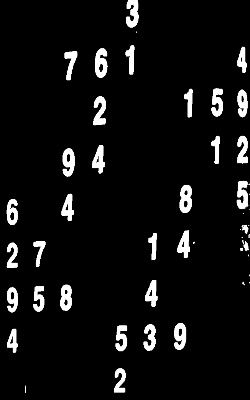
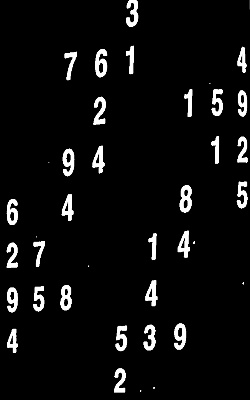
Slght changes, improve Block and constant in threshold

diff --git a/vision_utils.py b/vision_utils.py
@@ -119,13 +119,15 @@ def repetitiveThreshold(img, target_pct):
     '''
     Repeatedly tries different blocksize for adaptive thresholding until target pct is achieved
     '''
-    thres = 55
+    thres = 25
+    block = 3
     whites = whitePct(img)
 
     while whites > target_pct:
 
-        threshed = cv2.adaptiveThreshold(img,255,cv2.ADAPTIVE_THRESH_MEAN_C, cv2.THRESH_BINARY_INV,thres,2)
-        thres += 10
+        threshed = cv2.adaptiveThreshold(img,255,cv2.ADAPTIVE_THRESH_MEAN_C, cv2.THRESH_BINARY_INV, 19 ,block)
+        thres += 5
+        block += 10
         whites = whitePct(threshed)
 
     return threshed
@@ -152,7 +154,6 @@ def repetitiveFloodfill(dilated, overlapped, coords, i):
         floodfillGrid(dilated, overlapped, coords, i)
         i += 1
         whites = whitePct(dilated)
-
 
 def aspectratio(cell, highest=0.98, lowest=0.45):
     '''

diff --git a/train.py b/train.py
@@ -21,7 +21,6 @@ def deepnn(x, height, width, keep_prob=0.8):
 
     _x = tf.reshape(x, shape=[-1, height, width, 1])
 
-
     # CONV30 -> MAX_POOL2 ->
     out = layers.conv2d(_x, filters=30, kernel_size=5, activation=tf.nn.relu)
     out = layers.max_pooling2d(out, pool_size=2, strides=2)

diff --git a/README.md b/README.md
@@ -37,8 +37,6 @@ Solving a Sudoku Puzzle visually!
 
 --------------------------------------
 
-So here's a breakdown of what happened
-
 First, input image <br />
 ![a](https://github.com/Henry-bee/SudokuVisionSolver/blob/master/displayimages/displaypuzzle.jpg) <br />
 
@@ -55,14 +53,14 @@ Meanwhile in the command line, <br />
 ## Sidenotes
 ------------------------
 
-- Network is trained with only with images from "Big Book of Sudoku" 
+- Network is trained with images from "Big Book of Sudoku" 
 - Puzzle with handwritten digits won't work
 - Architecture of CovNet: COV30 -> MAXPOOL -> COV15 -> MAXPOOL -> DROPOUT -> FC128 -> FC50 -> FC10 
 - 10 classes: digits (1-9) + noise
 - Relatively poor at filtering out noisy cells
 
 ![a](https://github.com/Henry-bee/SudokuVisionSolver/blob/master/displayimages/noise1.jpg) <br />
-Noise accumulated from the shadows of texts on the next page
+Noise accumulated from the shadow of text on the back page
 
 ![a](https://github.com/Henry-bee/SudokuVisionSolver/blob/master/displayimages/noise2.jpg) <br />
 Result of poorly trimmed grid lines
